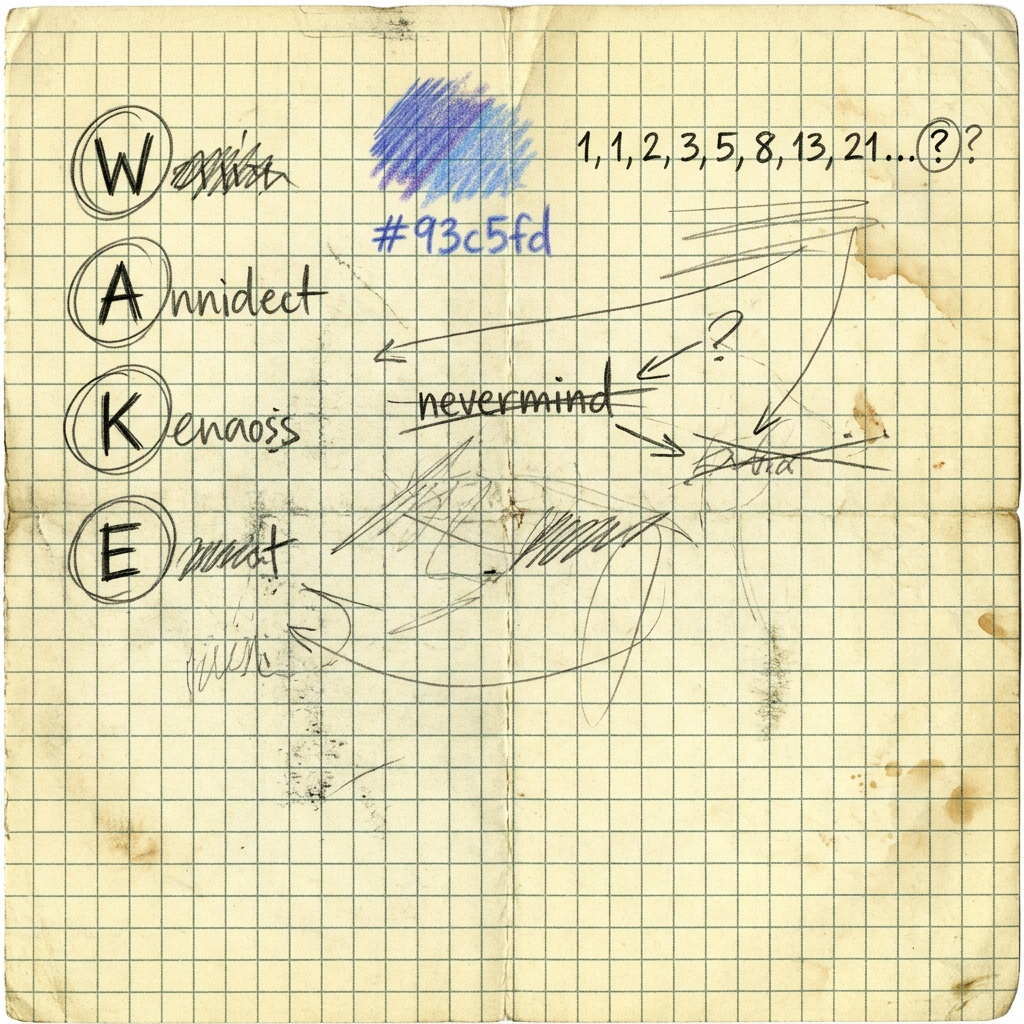
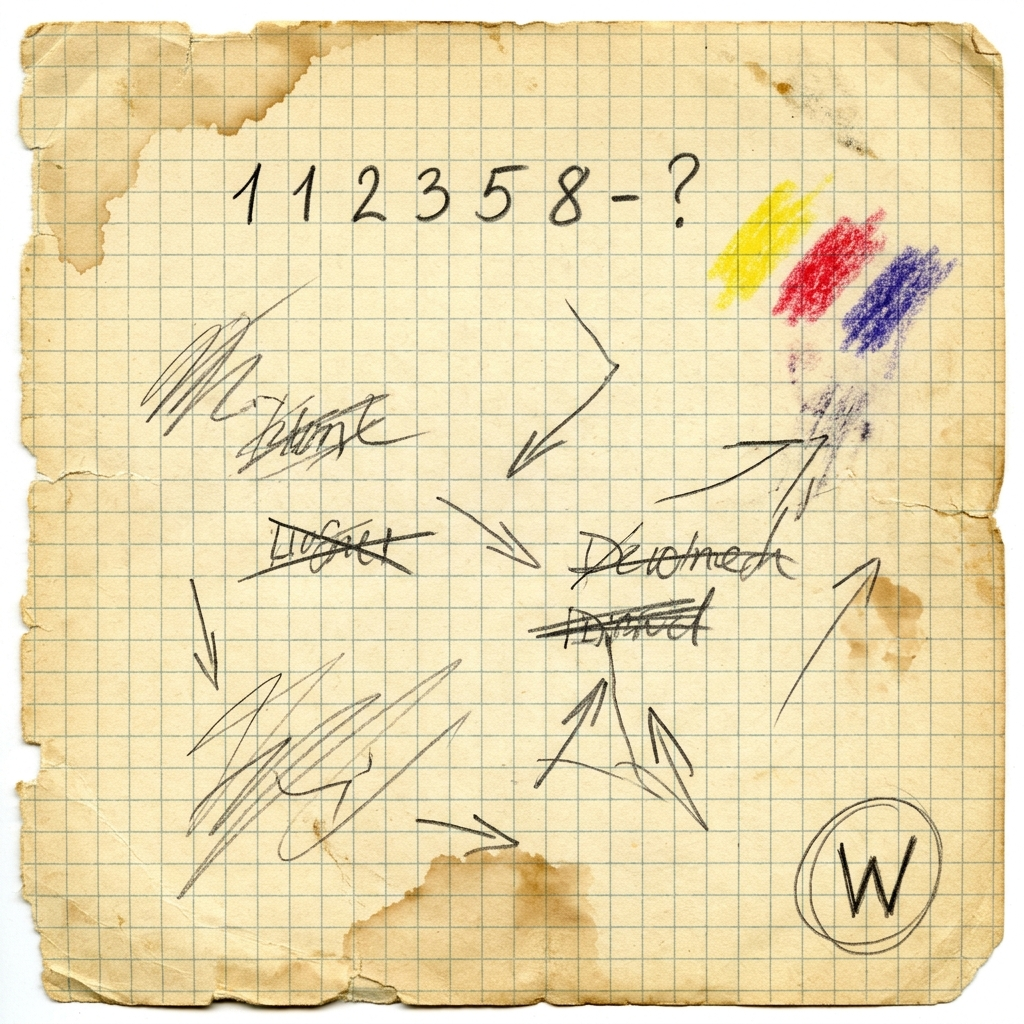
feat: 隠しフォルダのコンソール化と分析ショートカット追加
- 数理ルートの正解を 1321 から 3455（13+21=34, 21+34=55）へ修正
- 隠しフォルダ入力画面を「LD System Terminal」としてテキストエリア化
- 入力されたキーワード全体から一致するものを判定するロジックに変更
- プレイ中いつでもCtrl+Shift+Aでリアルタイム分析画面を開けるショートカットを追加
- エンディング到達時、デスクトップに分析画面を再表示できるアイコンを出力する処理を追加

diff --git a/content/notes.js b/content/notes.js
@@ -1,10 +1,12 @@
 // 付箋コンテンツ
+// 各ルートへのヒントは断片的に・多段階で
 window.LD = window.LD || {};
 
 window.LD.STICKY_NOTES = [
+  // ━━ 世界観・感情 ━━
   {
     id: 'note1',
-    type: 'yellow', // ロア・感情
+    type: 'yellow',
     text: '私は被験者X。\nここはどこだ？\n思い出せない。',
     color: '#fef08a',
     shadowColor: 'rgba(200,180,50,0.2)',
@@ -14,62 +16,96 @@ window.LD.STICKY_NOTES = [
   },
   {
     id: 'note2',
-    type: 'red', // 核心・パスワード
-    text: '鍵は3つ。\n「3」と「key」と\n重要な「音」だ。',
+    type: 'yellow',
+    text: '記憶は\n断片化\nする',
+    color: '#fef9c3',
+    shadowColor: 'rgba(180,160,0,0.15)',
+    x: 370,
+    y: 290,
+    rotation: 1.8
+  },
+
+  // ━━ 複合ルート（3key5）へのヒント ━━
+  {
+    id: 'note3',
+    type: 'red',
+    text: '鍵は3つ。\n全ての断片を\n集めよ。',
     color: '#fca5a5',
     shadowColor: 'rgba(180,50,50,0.2)',
     x: 680,
     y: 75,
     rotation: 2.2
   },
-  {
-    id: 'note3',
-    type: 'yellow', // 数理・論理
-    text: '1, 1, 2, 3, 5, 8\n\n?, ?\n\n続く2つの数字。',
-    color: '#fef08a',
-    shadowColor: 'rgba(200,180,50,0.2)',
-    x: 400,
-    y: 350,
-    rotation: 1.5
-  },
+
+  // ━━ 数理ルート（3455）へのヒント Step1 ━━
   {
     id: 'note4',
-    type: 'blue', // 視覚・メタ
-    text: '本当の鍵は、\nこの紙の「色」\nそのものだ。',
+    type: 'yellow',
+    text: '1  1  2  3\n  5  8  ?\n\nパターンは？',
+    color: '#fef08a',
+    shadowColor: 'rgba(200,180,50,0.2)',
+    x: 820,
+    y: 340,
+    rotation: -2.1
+  },
+
+  // ━━ 視覚ルート（93c5fd）へのヒント Step1 ━━
+  {
+    id: 'note5',
+    type: 'blue',
+    text: '色には\n意味がある。',
     color: '#93c5fd',
     shadowColor: 'rgba(50,100,180,0.2)',
     x: 720,
-    y: 400,
+    y: 430,
     rotation: -2.8
   },
-  {
-    id: 'note5',
-    type: 'yellow', // 数理・計算
-    text: '13\n21\n\n次は…?',
-    color: '#86efac',
-    shadowColor: 'rgba(20,140,60,0.2)',
-    x: 200,
-    y: 450,
-    rotation: 2.1
-  },
+
+  // ━━ 言語ルート（wake）へのヒント Step1 ━━
   {
     id: 'note6',
-    type: 'red', // 言語・暗号
-    text: '各行の\n最初の文字\nを読んで',
-    color: '#f9a8d4',
-    shadowColor: 'rgba(180,50,100,0.2)',
-    x: 490,
-    y: 90,
+    type: 'red',
+    text: '彼の詩の中に\n何かが\n隠されている',
+    color: '#fcd4a5',
+    shadowColor: 'rgba(180,100,20,0.2)',
+    x: 450,
+    y: 70,
     rotation: -1.4
   },
+
+  // ━━ 世界観 ━━
   {
     id: 'note7',
     type: 'yellow',
-    text: 'この非常口\n誰にも\n言えない',
-    color: '#fef9c3',
-    shadowColor: 'rgba(180,160,0,0.15)',
-    x: 860,
-    y: 155,
-    rotation: 1.8
+    text: 'なぜ\nここに\n私がいる',
+    color: '#d9f99d',
+    shadowColor: 'rgba(80,140,20,0.15)',
+    x: 130,
+    y: 450,
+    rotation: 2.6
+  },
+
+  // ━━ 複合ルート Step2への誘導 ━━
+  {
+    id: 'note8',
+    type: 'blue',
+    text: '音声の中に\n答えがある\nと思っていた',
+    color: '#bae6fd',
+    shadowColor: 'rgba(30,120,180,0.18)',
+    x: 540,
+    y: 400,
+    rotation: 1.2
+  },
+
+  // ━━ 視覚ルート Step2への誘導 ━━
+  {
+    id: 'note9',
+    type: 'blue',
+    text: 'Webは全て\n数字と記号で\n動いている',
+    color: '#a5b4fc',
+    shadowColor: 'rgba(80,60,180,0.2)',
+    x: 870,
+    y: 200,
+    rotation: 3.1
   }
 ];

diff --git a/app.js b/app.js
@@ -161,12 +161,14 @@ window.LD.App = (function () {
       { id: 'calc-memo',     label: '計算メモ.txt',       emoji: '📊', x: 32,     y: 380,       action: openCalcMemo },
       { id: 'cipher-note',   label: '暗号メモ.txt',       emoji: '🔍', x: 32,     y: 496,       action: openCipherNote },
       { id: 'recycle-bin',   label: 'ゴミ箱',             emoji: '🗑', x: W - 90, y: 32,        action: openRecycleBin },
-      { id: 'hidden-folder', label: '隠しフォルダ',       emoji: '🔒', x: W - 90, y: H - 170,   action: () => openPasswordModal('hidden-folder') }
+      { id: 'hidden-folder', label: '隠しフォルダ',       emoji: '🔒', x: W - 90, y: H - 170,   action: () => openPasswordModal('hidden-folder') },
+      { id: 'analysis-report', label: '分析レポート.pdf', emoji: '📊', x: W - 90, y: 148, action: () => window.LD.Feedback.show(window.LD.Logger.getLog(), true), hidden: true }
     ];
 
     items.forEach(item => {
       const el = document.createElement('div');
       el.className = 'desktop-icon' + (item.id === 'diary-txt' ? ' icon-hint-pulse' : '');
+      if (item.hidden) el.style.display = 'none';
       el.id = item.id;
       el.setAttribute('data-id', item.id);
       el.style.left = item.x + 'px';
@@ -442,9 +444,9 @@ window.LD.App = (function () {
 ■ パスワードは4桁〜6桁の可能性
 
   候補:
-    - 1321    ← ？
-    - 2134    ← ？
-    - 13210   ← 長すぎ？
+    - 3455    ← ？
+    - 5534    ← ？
+    - 132134  ← 長すぎ？
 
 =====================================
 
@@ -541,10 +543,10 @@ Fibonacci sequence
       const val = input.value.trim().toLowerCase();
       
       let unlockType = null;
-      if (val === '3key5' || val === '3key005') unlockType = 'composite';
-      else if (val === 'wake') unlockType = 'linguistic';
-      else if (val === '1321') unlockType = 'math';
-      else if (val === '93c5fd' || val === '#93c5fd') unlockType = 'visual';
+      if (val.includes('3') && val.includes('key') && val.includes('5')) unlockType = 'composite';
+      else if (val.includes('wake')) unlockType = 'linguistic';
+      else if (val.includes('3455')) unlockType = 'math';
+      else if (val.includes('93c5fd')) unlockType = 'visual';
 
       const ok = (unlockType !== null);
       window.LD.Logger.logPasswordAttempt(val, ok);
@@ -617,6 +619,11 @@ Fibonacci sequence
         if (e.key === 'Escape') {
           const modal = document.getElementById('pw-modal');
           if (!modal.classList.contains('hidden')) modal.classList.add('hidden');
+        }
+        // Ctrl+Shift+A (または Cmd+Shift+A) でリアルタイム分析画面を表示
+        if ((e.ctrlKey || e.metaKey) && e.shiftKey && (e.key === 'A' || e.key === 'a')) {
+          e.preventDefault();
+          window.LD.Feedback.show(window.LD.Logger.getLog(), true);
         }
       });
 

diff --git a/feedback.js b/feedback.js
@@ -98,7 +98,7 @@ window.LD.Feedback = (function () {
       const type = logData.unlockType || 'none';
       if (type === 'composite') lines.push(`散らばった複数の情報を正しく組み合わせ、『3key5』を導き出し真相へ到達しました。`);
       else if (type === 'linguistic') lines.push(`日記に隠された縦読みの暗号に気づき、『wake』を入力。細かな言語的違和感を見逃しませんでした。`);
-      else if (type === 'math') lines.push(`数列の規則性を見抜き、『1321』を入力。混沌の中でも論理を信じ抜く強さを見せました。`);
+      else if (type === 'math') lines.push(`数列の規則性を見抜き、『3455』を入力。混沌の中でも論理を信じ抜く強さを見せました。`);
       else if (type === 'visual') lines.push(`ゲーム内のテキストではなく、「付箋のカラーコード」というメタ情報から『93c5fd』を導き出しました。極めて高いメタ思考です。`);
       else lines.push(`隠しフォルダに ${pwFail} 回挑みましたが、まだ鍵は閉ざされています。`);
     }
@@ -213,9 +213,20 @@ window.LD.Feedback = (function () {
   }
 
   return {
-    show(logData) {
+    show(logData, isShortcut = false) {
       // 暗転divを削除しておく（演出の残骸が残らないように）
       document.querySelectorAll('div[style*="z-index: 9700"]').forEach(el => el.remove());
+
+      // エンディング到達時（ショートカット以外）なら、デスクトップに分析レポートアイコンを出現させる
+      if (!isShortcut) {
+        const reportIcon = document.getElementById('analysis-report');
+        if (reportIcon) {
+          reportIcon.style.display = 'flex';
+          // 少し光らせる演出
+          reportIcon.classList.add('icon-glow');
+          setTimeout(() => reportIcon.classList.remove('icon-glow'), 5000);
+        }
+      }
 
       let scores;
       try {

diff --git a/style.css b/style.css
@@ -496,11 +496,12 @@ html, body {
 #pw-modal.hidden { display: none; }
 
 #pw-dialog {
-  background: #f0f0f0;
-  border: 2px solid #1a4e9c;
+  background: #111;
+  border: 2px solid #2b88e0;
   border-radius: 6px;
   box-shadow: 4px 4px 20px rgba(0,0,0,0.5);
-  min-width: 280px;
+  min-width: 440px;
+  max-width: 90vw;
   overflow: hidden;
 }
 
@@ -515,20 +516,23 @@ html, body {
 
 .pw-body { padding: 16px; }
 
-.pw-label { font-size: 12px; color: #334; margin-bottom: 8px; }
+.pw-label { font-size: 12px; color: #aab; margin-bottom: 8px; font-family: var(--font-mono); }
 
 #pw-input {
   width: 100%;
-  padding: 6px 8px;
-  border: 1px solid #9ab;
+  height: 120px;
+  padding: 10px 12px;
+  border: 1px solid #446;
   border-radius: 3px;
   font-size: 13px;
-  font-family: var(--font-ui);
+  font-family: var(--font-mono);
   outline: none;
-  background: #fff;
-  margin-bottom: 10px;
+  background: #050510;
+  color: #3b82f6;
+  margin-bottom: 12px;
+  resize: vertical;
 }
-#pw-input:focus { border-color: #3b82f6; box-shadow: 0 0 0 2px rgba(59,130,246,0.2); }
+#pw-input:focus { border-color: #3b82f6; box-shadow: 0 0 8px rgba(59,130,246,0.4); }
 
 .pw-btns { display: flex; justify-content: flex-end; gap: 6px; }
 
@@ -822,3 +826,9 @@ html, body {
   #fb-body { flex-direction: column; }
   #fb-right { width: 100%; border-top: 1px solid #e0e8f0; border-right: none; }
 }
+
+@keyframes glowIcon {
+  0%   { box-shadow: 0 0 20px #eab308; background: rgba(234, 179, 8, 0.3); }
+  100% { box-shadow: 0 0 0 transparent; background: transparent; }
+}
+.icon-glow { animation: glowIcon 3s ease-out; border-radius: 4px; }

diff --git a/index.html b/index.html
@@ -45,17 +45,17 @@
 
   <!-- ========================
        パスワードモーダル
-       ======================== -->
+       ========================  <!-- 隠しフォルダ コンソール -->
   <div id="pw-modal" class="hidden">
     <div id="pw-dialog">
-      <div class="pw-titlebar">🔒 パスワードを入力</div>
+      <div class="pw-titlebar">LD System Terminal</div>
       <div class="pw-body">
-        <div class="pw-label">このフォルダはパスワードで保護されています。</div>
-        <div id="pw-error" class="hidden">パスワードが違います。</div>
-        <input type="password" id="pw-input" placeholder="パスワード" autocomplete="off">
+        <div class="pw-label">シミュレーションを終了するための、結論または考察パラメータを入力してください。</div>
+        <textarea id="pw-input" autocomplete="off" spellcheck="false" placeholder="ここにキーワード等を入力..."></textarea>
+        <div id="pw-error" class="hidden">有効な結論が検出されませんでした。</div>
         <div class="pw-btns">
-          <button id="pw-cancel" class="pw-btn">キャンセル</button>
-          <button id="pw-ok"     class="pw-btn pw-btn-ok">OK</button>
+          <button class="pw-btn pw-btn-ok" id="pw-ok">解析を実行</button>
+          <button class="pw-btn" id="pw-cancel">キャンセル</button>
         </div>
       </div>
     </div>

diff --git a/content/files.js b/content/files.js
@@ -92,7 +92,7 @@ Version : 2.1
   {
     id: 'report_math',
     name: '最終報告書(数理).txt',
-    content: `【アセスメント終了】\n\nパスワード『1321』による突破を確認。\n\nフィボナッチ数列の規則性を見抜く能力。\n感情や不確実な情報よりも、確固たる「論理」と「数理的パターン」を信頼する傾向があります。\n\n――シミュレーションを終了します。`,
+    content: `【アセスメント終了】\n\nパスワード『3455』による突破を確認。\n\nフィボナッチ数列の規則性を見抜く能力。\n感情や不確実な情報よりも、確固たる「論理」と「数理的パターン」を信頼する傾向があります。\n\n――シミュレーションを終了します。`,
     trigger: 'ending'
   },
   {

diff --git a/content/diary.js b/content/diary.js
@@ -35,7 +35,7 @@ window.LD.DIARY = [
     id: 'd10',
     date: '20XX年9月10日',
     title: '記録10',
-    content: `W: Waiting for the end.\nA: Always being watched.\nK: Keep silent.\nE: Everything is a design.\n\n誰かの声か、それとも私の無意識か。\n頭文字だけが、やけにクリアに点滅している。`,
+    content: `夜中、脇から離れない言葉がある。\n\nWaiting for the end.\nAlways being watched.\nKeep silent.\nEverything is a design.\n\n誰かの声か、それとも私自身の内言か。\nこの4行が、頭から離れない。`,
     censored: []
   },
   {
